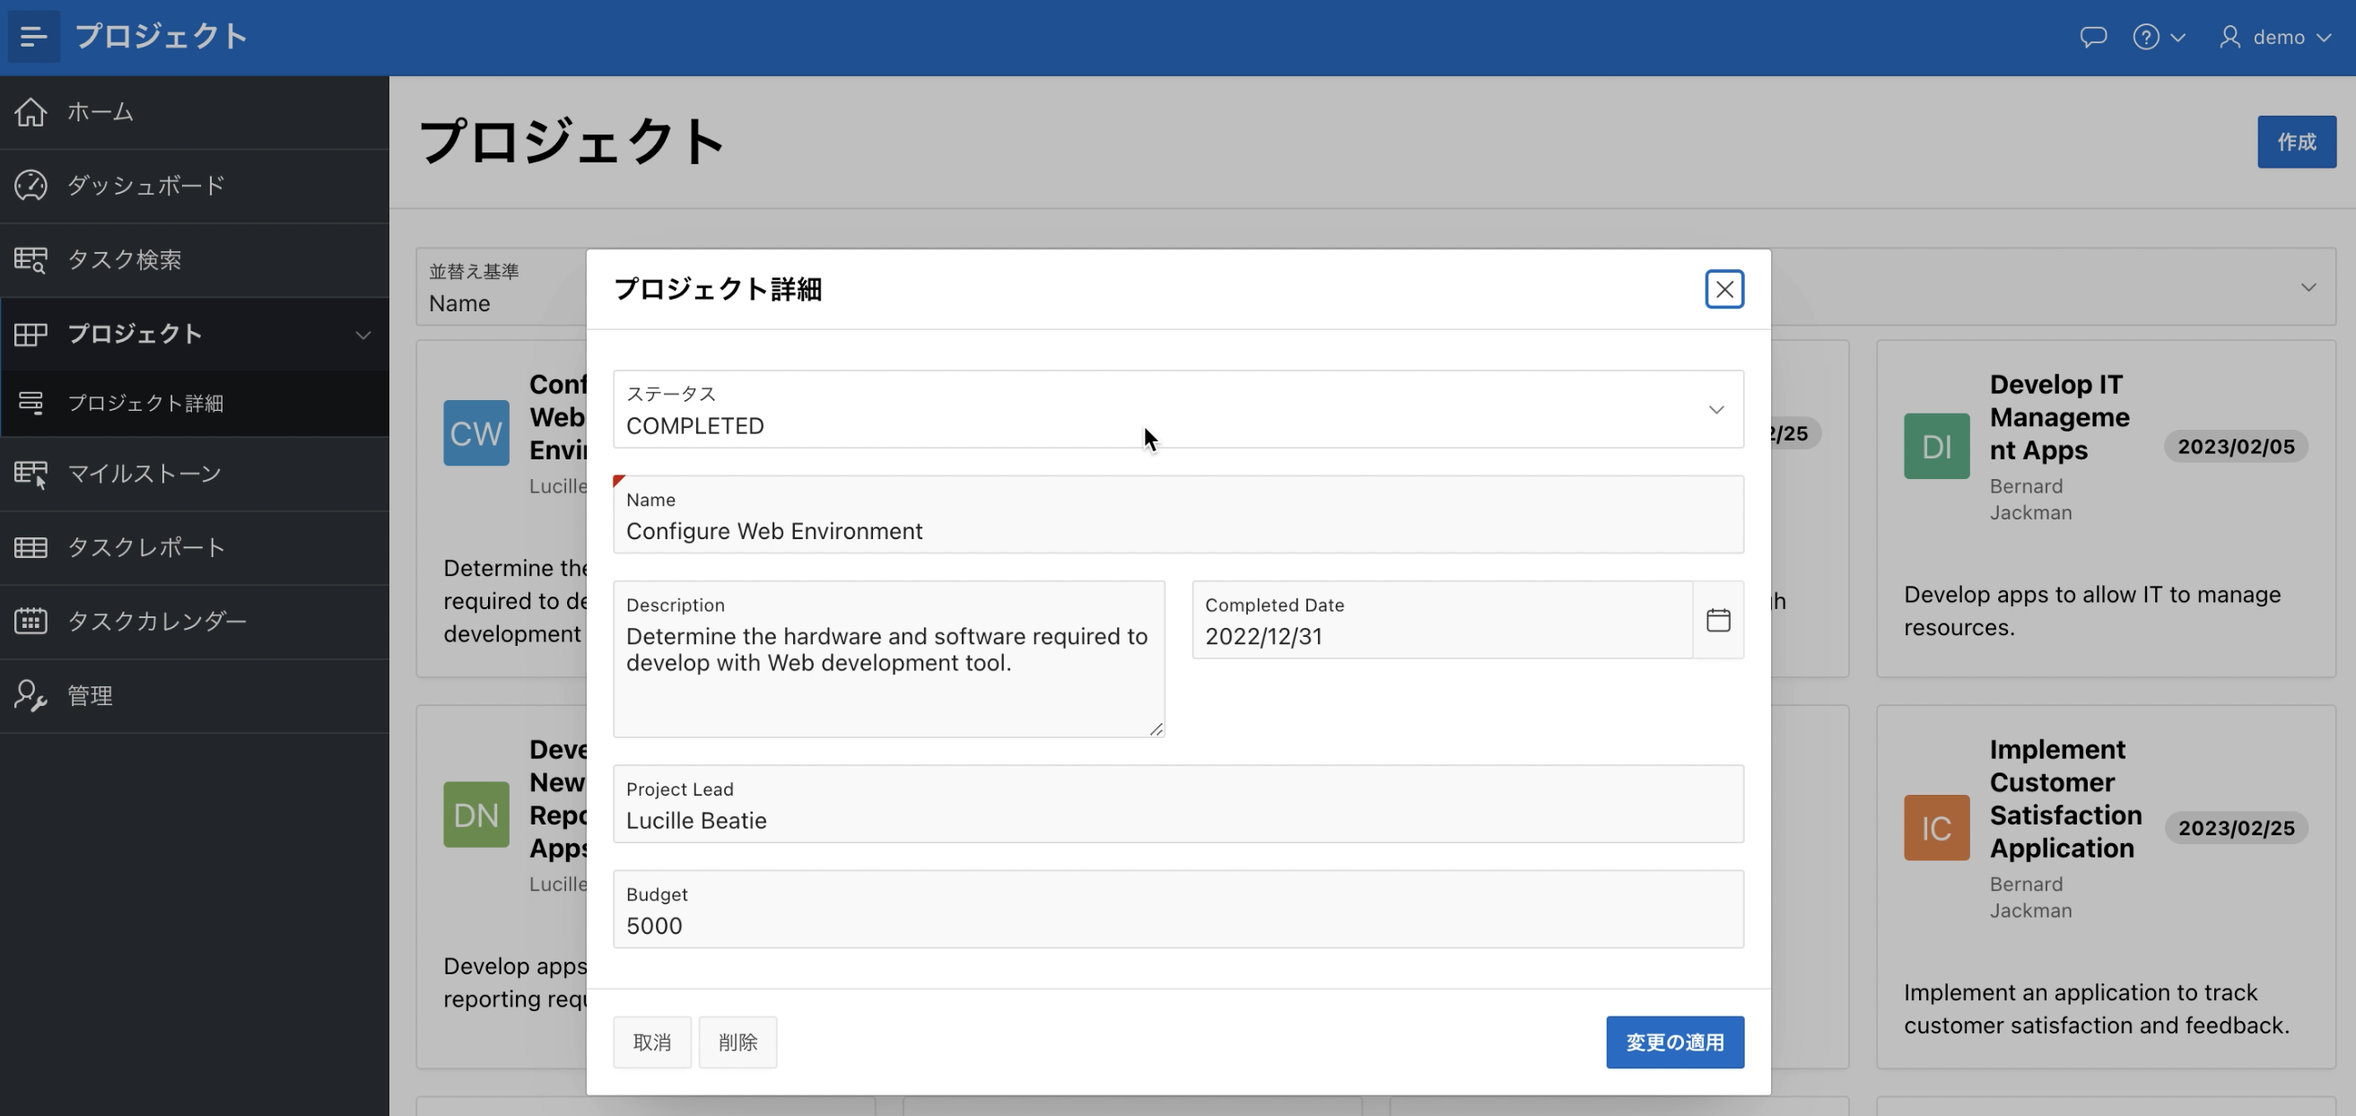
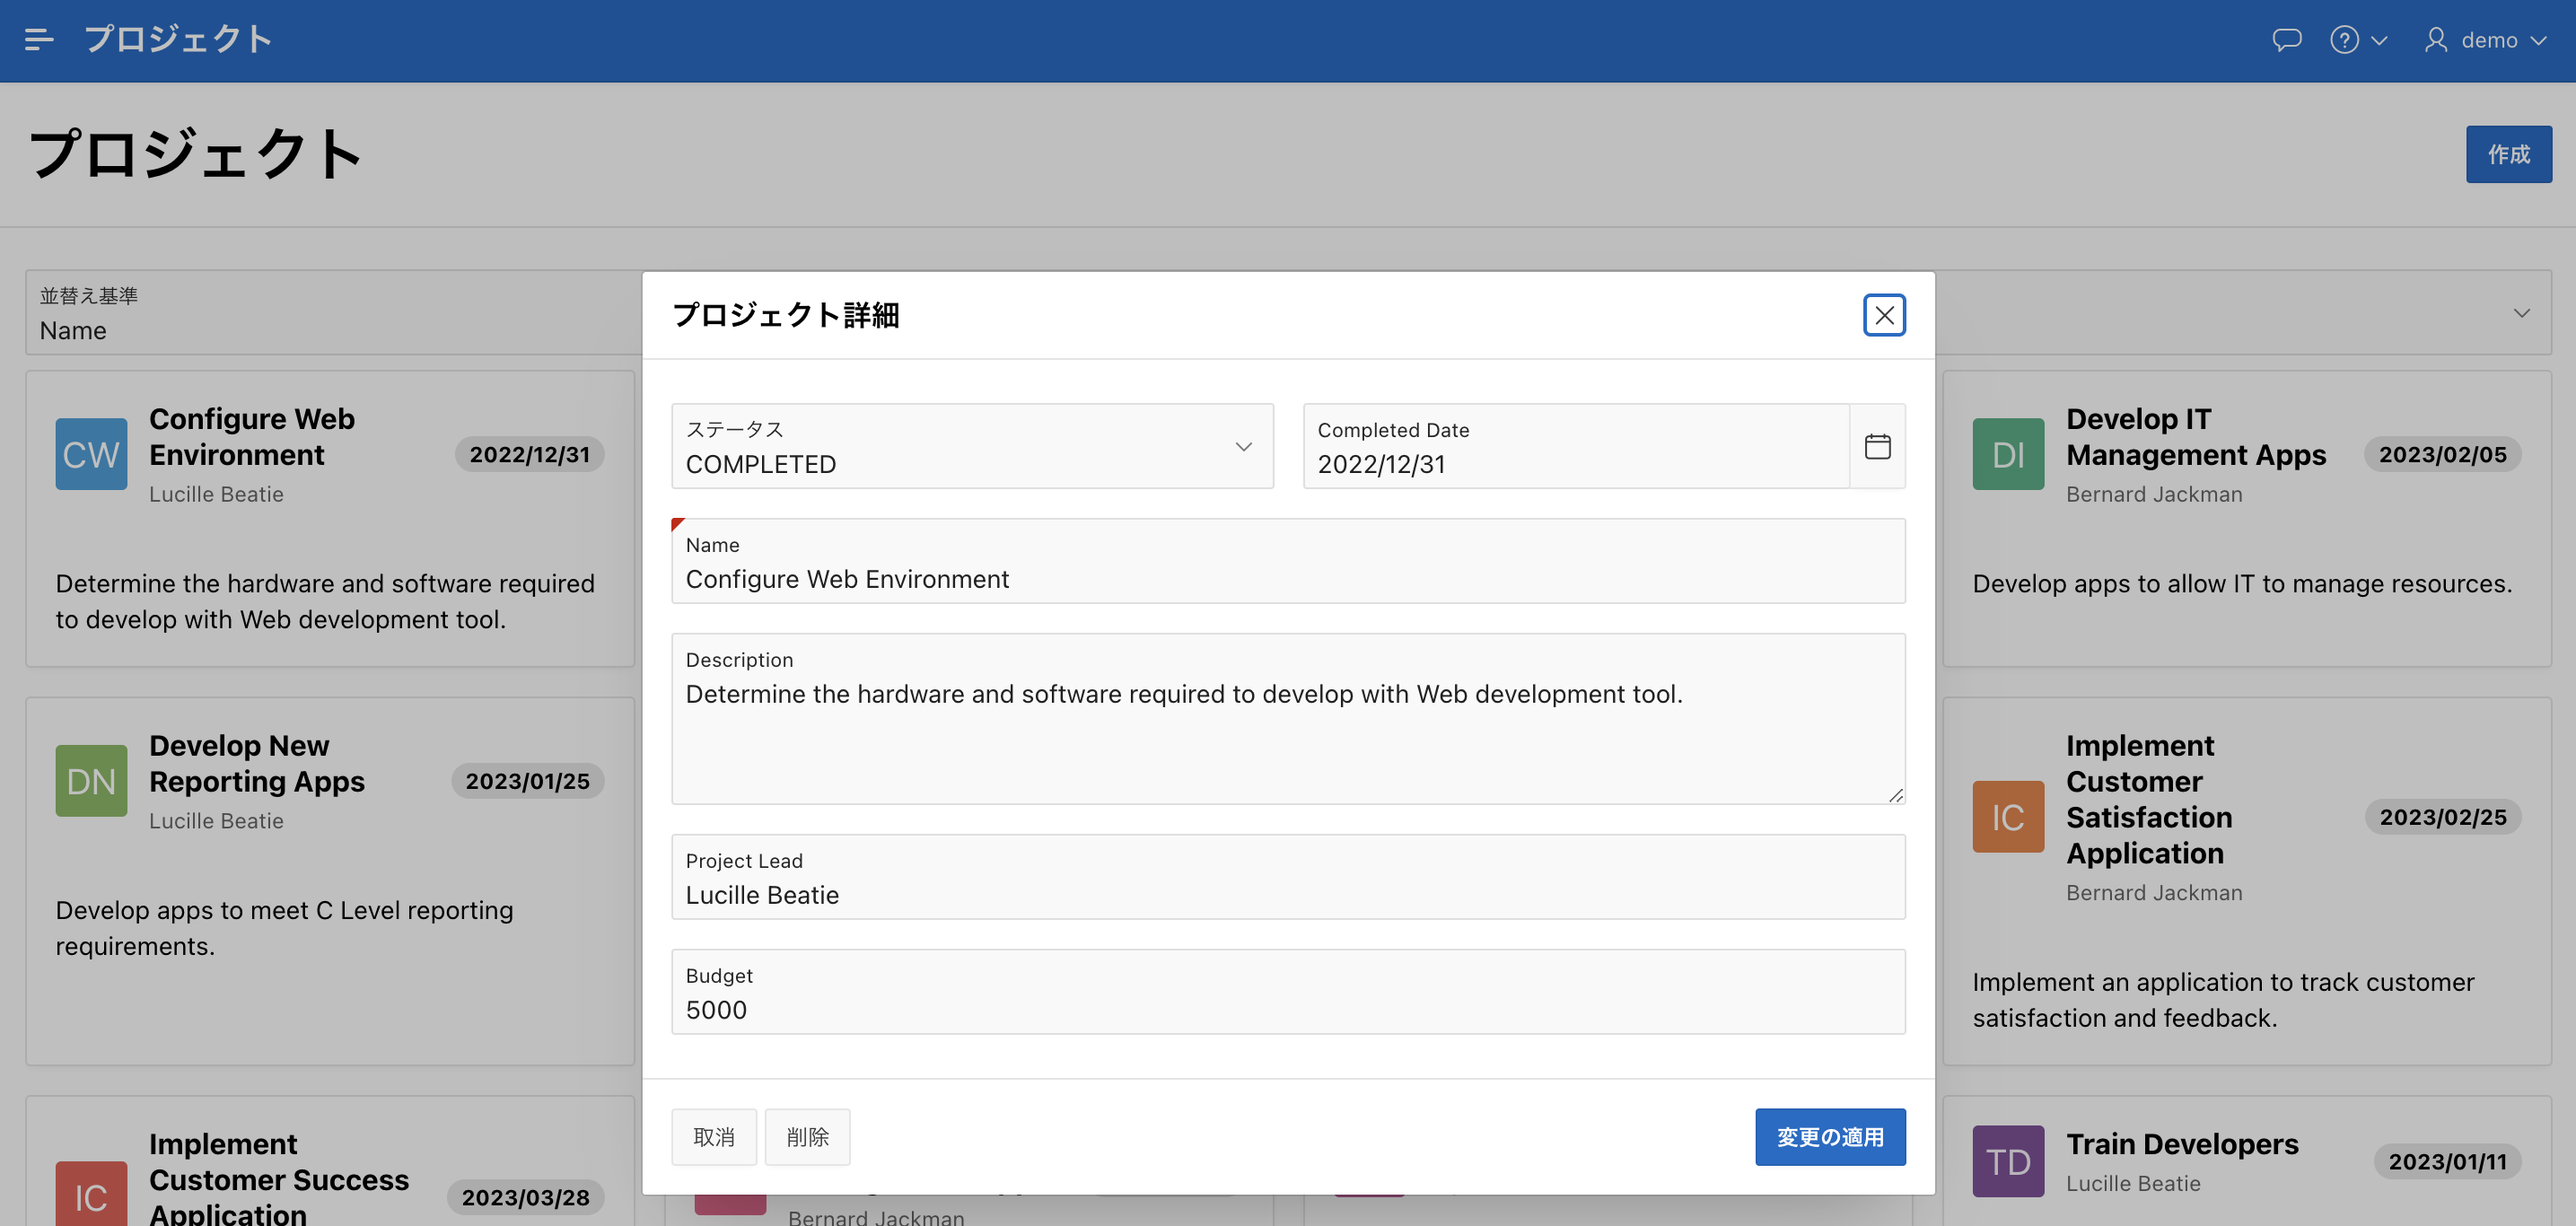
correct wrong content

diff --git a/ja-jp-existing-tables/6-improving-projects/6-improving-projects.md b/ja-jp-existing-tables/6-improving-projects/6-improving-projects.md
@@ -202,8 +202,8 @@
 5. 完了日をページの下に表示するよりも、ステータス アイテムの直後にアイテムを表示する方がはるかに優れています。
      レンダリング・ツリー(左ペイン) で、**P10\_COMPLETED\_DATE**をクリックします。
      プロパティ・エディター(右側のペイン) で、次のように入力します。
-     - レイアウト > シーケンス - **50** を入力します   
-     *注: これにより、P10\_COMPLETED\_DATE が P10\_STATUS\_ID (シーケンス 40) と P10\_NAME (シーケンス 60) の間に配置されます*
+     - レイアウト > シーケンス - **25** を入力します   
+     *注: これにより、P10\_COMPLETED\_DATE が P10\_STATUS\_ID (シーケンス 20) と P10\_NAME (シーケンス 30) の間に配置されます*
      - レイアウト > 新しい行を開始 - _チェックを外します_   
      *注意: これにより、前のアイテム P10\_STATUS\_ID* と同じ行にアイテムが配置されます。
 
@@ -211,7 +211,8 @@
 
 6. 次に、プロジェクト フォーム ページを確認します。
      **保存**をクリックします   
-     *注意: [ページを保存して実行] ボタンをクリックすると、変更は保存されますが、ページは実行されません。 プロジェクトフォームページはモーダルページであるため、ページ・デザイナr* から直接ではなく、呼び出しページから実行する必要があります。
+     *注意: [ページを保存して実行] ボタンをクリックすると、変更は保存されますが、ページは実行されません。 プロジェクトフォームページはモーダルページであるため、ページ・デザイナ* から直接ではなく、呼び出しページから実行する必要があります。
+     *注意: [ページを保存して実行] ボタンをクリックすると、変更は保存されますが、ページは実行されません。 プロジェクトフォームページはモーダルページであるため、ページ・デザイナ* から直接ではなく、呼び出しページから実行する必要があります。
 
 7. ランタイム環境に戻り、ブラウザーを更新して、ナビゲーション メニュー (左側) 内で **プロジェクト**をクリックします。
      カードレコードをクリックすると、対応するレコードがフォームページに表示されます。
